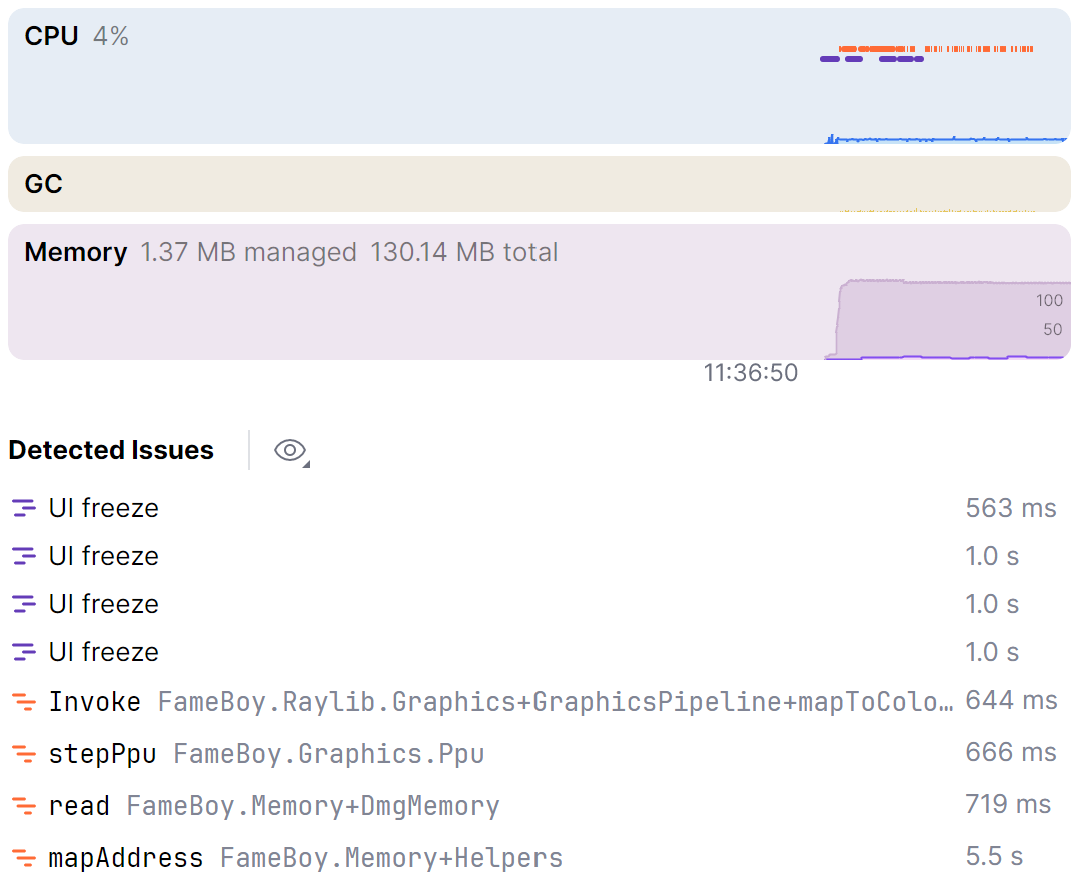
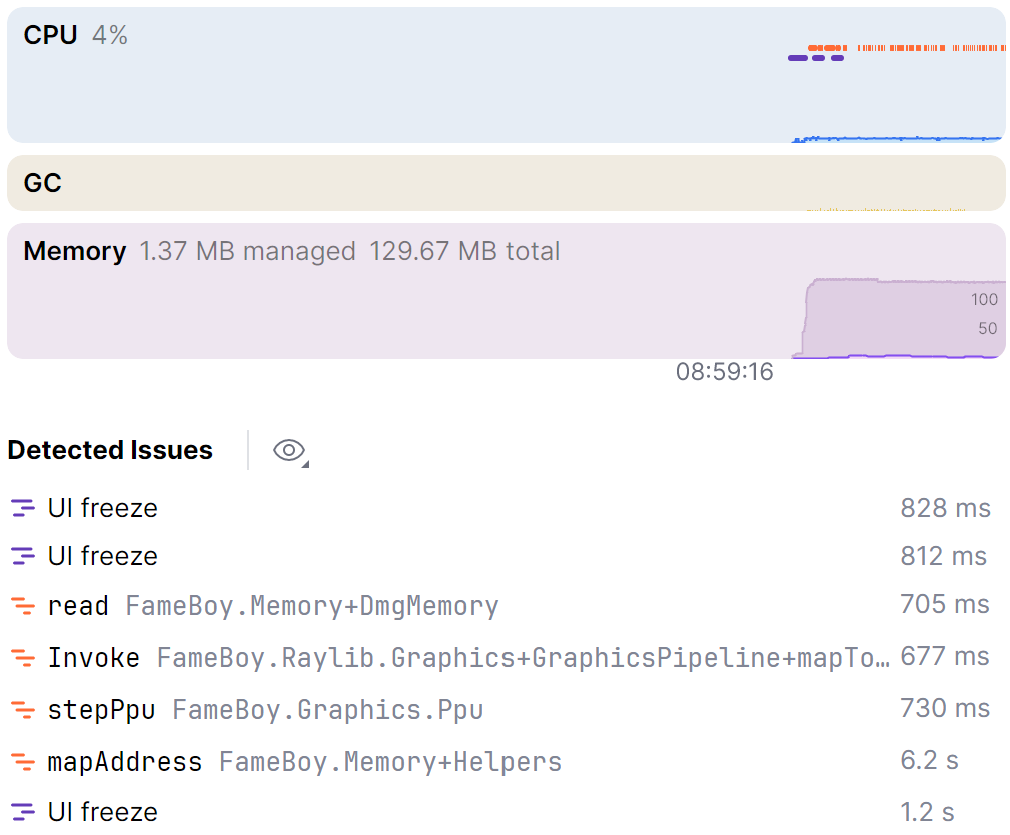
Try add darkmode support for images

diff --git a/docs/blog.md b/docs/blog.md
@@ -10,7 +10,9 @@ A few months later, and after many nights of going to bed at 2 AM even though I 
 
 **[Play it in the browser](https://nickkossolapov.github.io/fame-boy/)** | **[View on GitHub](https://github.com/nickkossolapov/fame-boy)**
 
-![Fame Boy playing Pokémon Blue](./images/pokemon.gif)
+<div style="text-align: center;">
+  <img alt="Fame Boy playing Pokémon Blue" src="./images/pokemon.gif">
+</div>
 
 ## How it works
 
@@ -22,7 +24,9 @@ The interface between the frontends and core is essentially just two arrays and 
 - `stepEmulator()` - a function that executes one CPU instruction and returns the number of cycles taken.
 - `getJoypadState(state)` - a callback for the frontend to give the emulator the joypad state, usually once a frame.
 
-![Fame Boy architecture diagram](./images/architecture.svg)
+<div style="text-align: center;">
+  <img alt="Fame Boy architecture diagram" src="./images/architecture.svg">
+</div>
 
 I tried to model Fame Boy in a similar way to the actual hardware of the Game Boy.
 
@@ -182,7 +186,9 @@ This is the part that surprised me when it came to blogs from other people who m
 
 At the start of implementing the PPU, I was a bit lost on what to do. So rather than trying to grok the pixel FIFOs and full PPU pipeline all at once, I just decided to read the tile and background map from memory, parse the data, and just put it on the screen (the right part of the screenshot below). I could finally see my CPU working, and thanks to Tetris' simplicity, I could see something that was *mostly* a real Game Boy game. It felt great seeing it for the first time.
 
-![Fame Boy debug view|400](./images/debug_view.png)
+<div style="text-align: center;">
+  <img alt="Fame Boy debug view" src="./images/debug_view.png" width="400">
+</div>
 
 And for the PPU, starting with the tile and background view was a great place to start in retrospect. It helped me at pretty much every point in the process, from implementing the actual screen to debugging the annoying little details with the sprite data. 
 
@@ -269,7 +275,9 @@ My implementation of this is far from perfect, though. Ultimately, I found the a
 
 After I had gotten the PPU somewhat working and could see some things happening on the screen on the desktop, I was excited to try to move Fame Boy to the web. I hopped onto the [Fable](https://fable.io/) docs, installed a package, set up the main loop, added some styling, and within an hour or two I was ready to try and run it. I hit enter, and then:
 
-![Tetris, allegedly|340](./images/tetris_allegedly.png)
+<div style="text-align: center;">
+  <img alt="Tetris, allegedly" src="./images/tetris_allegedly.png" width="340">
+</div>
 
 Maybe this version of Tetris set in winter in Siberia. I tried debugging the issue for a bit, but instead of spending too much time on it I just moved on to trying WebAssembly with [Blazor](https://dotnet.microsoft.com/en-us/apps/aspnet/web-apps/blazor). It was also similarly easy to get up and running, and this time it actually worked. 
 
@@ -277,13 +285,23 @@ But there was a problem, it was nigh unplayable, getting maybe 8 FPS. I'm still 
 
 To my surprise, Fable puts the transpiled JS files right next to the source code, and it's actually quite readable.
 
-![Fame Boy's transpiled code](./images/transpiled_fs.png)
+<div style="text-align: center;">
+  <picture>
+    <source srcset="./images/transpiled_fs_dark.png" media="(prefers-color-scheme: dark)">
+    <img alt="Fame Boy's transpiled code" src="./images/transpiled_fs.png">
+  </picture>
+</div>
 
 This made understanding the new code, and also debugging in the browser dev tools, quite straightforward. And when looking at the dev tools I noticed something was a bit wrong.
 
-![The CPU state in the browser's dev tools|350](./images/web_cpu.png)
+<div style="text-align: center;">
+  <picture>
+    <source srcset="./images/web_cpu_dark.png" media="(prefers-color-scheme: dark)">
+    <img alt="The CPU state in the browser's dev tools" src="./images/web_cpu.png" width="350">
+  </picture>
+</div>
 
-The CPU registers in Fame Boy (and the Game Boy too) are 8-bit unsigned integers, so in the range 0-255. I'm not an expert, but I don't think -12787958 is an 8-bit number. I went through the transpiled code and the Fable docs and found [this](https://fable.io/docs/javascript/compatibility.html#numeric-types):
+The CPU registers in Fame Boy (and the Game Boy too) are 8-bit unsigned integers, so in the range 0-255. I'm not an expert, but I don't think -15565461 is an 8-bit number. I went through the transpiled code and the Fable docs and found [this](https://fable.io/docs/javascript/compatibility.html#numeric-types):
 
 > (non-standard) Bitwise operations for 16 bit and 8 bit integers use the underlying JavaScript 32 bit bitwise semantics. Results are not truncated as expected, and shift operands are not masked to fit the data type.
 
@@ -297,7 +315,12 @@ Once I had gotten things showing on the screen, I was curious what performance w
 
 As I added more features, performance slowly dropped, eventually reaching 45 FPS, and turning off v-sync didn't help. Later had arrived, so it was time to optimise. I fired up the profiler in JetBrains Rider, and saw this:
 
-![Spot the big number in the profiler](./images/profiling.png)
+<div style="text-align: center;">
+  <picture>
+    <source media="(prefers-color-scheme: dark)" srcset="./images/profiling_dark.png">
+    <img alt="Spot the big number in the profiler" src="./images/profiling.png" width="500">
+  </picture>
+</div>
 
 `mapAddress` looked very suspect. Virtually every component accesses the memory, but why is it so much higher than the rest? I drilled down into the other function calls (like `stepPpu`), and found everything was spending more time than I expected on accessing memory. So I went to the offending code:
 
@@ -368,7 +391,9 @@ There were two noteworthy cases with AI in my project. One was at the end where 
 
 The other was a case where AI actually saved this project when I had nearly given up. If you look through the git history in my repo, you'll find a rather large gap at one point. I call it the "timer winter".
 
-![The timer winter|350](./images/timer_winter.png)
+<div style="text-align: center;">
+  <img alt="The timer winter" src="./images/timer_winter.png" width="350">
+</div>
 
 It wasn't that I didn't work on the emulator, I was just stuck on a bug. I could never get past the copyright screen in Tetris, no matter what I tried. I probably spent over 20 hours debugging, scanning the emu-dev Discord, creating tests, and even throwing the issue at earlier AI models. Nothing worked. But then after a few weeks away from the emulator I tried Claude Opus, and it found the issue in just a few minutes. The fix?
 
